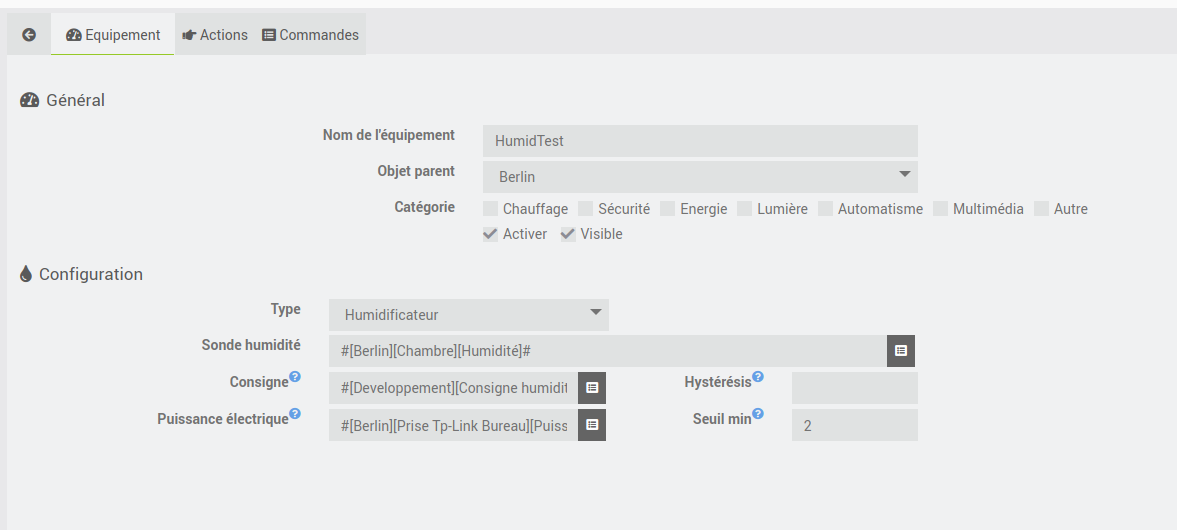
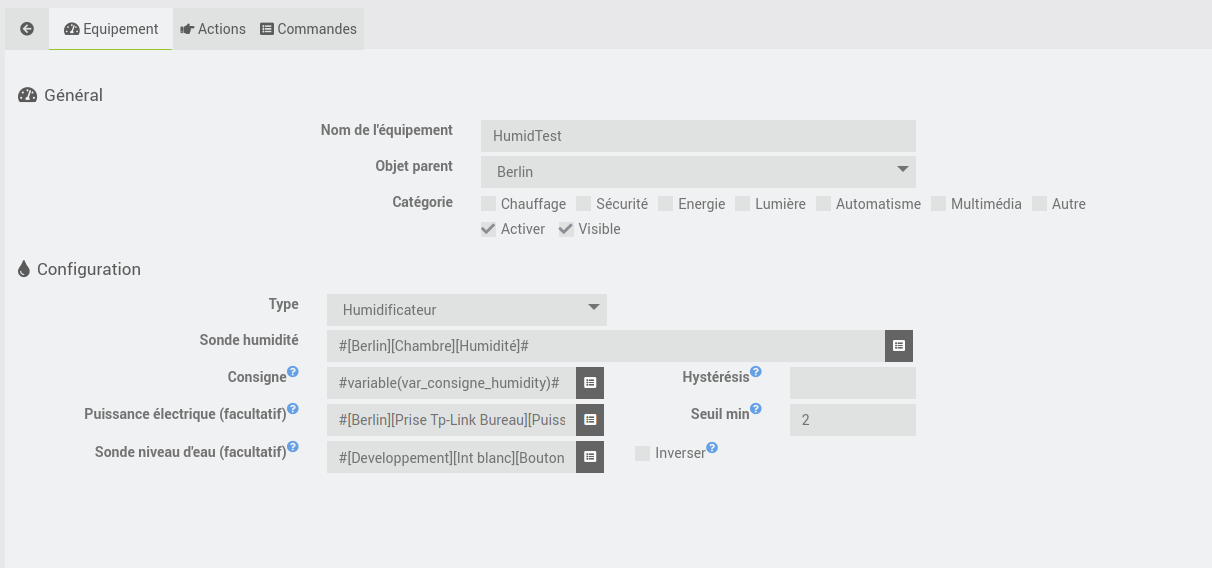
beta 0.0.2 - update doc

diff --git a/core/class/humidity.class.php b/core/class/humidity.class.php
@@ -443,7 +443,7 @@ class humidity extends eqLogic {
           if (!is_object($cmd)) {
             $cmd = new humidityCmd();
             $cmd->setLogicalId('sonde_eau');
-            $cmd->setIsVisible(1);
+            $cmd->setIsVisible(0);
             $cmd->setIsHistorized(1);
             $cmd->setEqLogic_id($this->getId());
           }

diff --git a/docs/fr_FR/index.md b/docs/fr_FR/index.md
@@ -3,6 +3,8 @@ Présentation
 
 Ce plugin permet de gérer un humidificateur ou un déshumidificateur, non connecté, via une prise connectée et une sonde d'humidité.
 
+Vous pouvez aussi l'utiliser pour piloter une VMC (plugin en mode "déshumidificateur).
+
 Changelog
 ==========
 
@@ -25,6 +27,7 @@ Configurez votre équipement :
 * **Hystérésis** : Il s'agit de la valeur de tolérance souhaitée autour de la consigne donnée. Par exemple si votre consigne est à 60% avec un hystérésis de 5%, un humidificateur sera actif jusqu'à 65% puis il ne se réenclenchera qu'en dessous de 55%. Ceci permet de ne pas constamment déclencher/couper l'appareil lorsque l'humidité de la pièce est proche de la consigne. Par défaut l'hystérésis est à 0.
 * **Puissance électrique** : Champs facultatif permettant de suivre le fonctionnement effectif de l'appareil et de générer une alerte en conséquence. Un humidificateur n'ayant plus d'eau ou un déshumidificateur dont le réservoir est plein ne consommeront plus autant que lors de leur fonctionnement nominal.
 * **Seuil min** : seuil minimum de consommation de l'appareil en fonctionnement nominal. Ce seuil permet de générer l'alerte lorsque la puissance devient inférieure au seuil. Par exemple pour un humidificateur consommant 8W en nominal et 1W en veille (lorsque son réservoir est vide), une bonne valeur est un seuil de 2W. Valeur par défaut : 0W
+* **Sonde niveau d'eau** : Champs facultatif permettant de déclarer une sonde de niveau d'eau pour générer une alerte directement selon l'état de ce capteur. L'alerte ne sera envoyée qu'au front montant (ou descendant si la case "inverser" est cochée), c'est à dire lors du passage de 0 à 1.
 
 Onglet **Actions**
 ---

diff --git a/docs/fr_FR/changelog.md b/docs/fr_FR/changelog.md
@@ -11,3 +11,5 @@
 ---
 
 * Ajout input sonde binaire pour niveau d'eau pour alerte de réservoir plein/vide
+* Update documentation
+* Testée sous Jeedom v4.0.49
